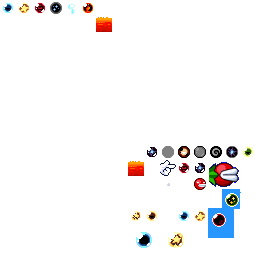
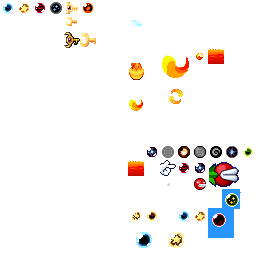
redesigned key spell

diff --git a/Leore/Objects/Projectiles/FireProjectile.cs b/Leore/Objects/Projectiles/FireProjectile.cs
@@ -18,6 +18,8 @@ namespace Leore.Objects.Projectiles
 {
     public abstract class FireProjectile : PlayerProjectile
     {
+        public bool IsPrimary { get; set; }
+
         protected bool dead;
 
         protected Player player => GameManager.Current.Player;
@@ -44,8 +46,8 @@ namespace Leore.Objects.Projectiles
 
         public override void Destroy(bool callGC = false)
         {
-
-            new SingularEffect(X, Y, 10) { Scale = Scale * .75f };
+            if (IsPrimary)
+                new SingularEffect(X, Y, 10) { Scale = Scale * .75f };
             base.Destroy(callGC);
         }
 
@@ -65,7 +67,7 @@ namespace Leore.Objects.Projectiles
 
     public class FireProjectile1 : FireProjectile
     {
-        private int bounce = 3;
+        public int Bounce { get; set; } = 3;
         private List<Vector2> a;
         private int ind;
         private float d;
@@ -81,6 +83,8 @@ namespace Leore.Objects.Projectiles
             d = 0;
 
             Texture = AssetManager.Projectiles[10];
+
+            IsPrimary = true;
         }
 
         public override void Update(GameTime gameTime)
@@ -114,10 +118,10 @@ namespace Leore.Objects.Projectiles
                 XVel *= .95f;
                 YVel = -Math.Sign(YVel) * Math.Max(Math.Abs(YVel) * .85f, 1.3f);
 
-                bounce = Math.Max(bounce - 1, 0);
+                Bounce = Math.Max(Bounce - 1, 0);
             }
 
-            if ((bounce == 0)
+            if ((Bounce == 0)
                 || Math.Max(Math.Abs(XVel), Math.Abs(YVel)) < .1f)
                 Destroy();
 
@@ -159,10 +163,6 @@ namespace Leore.Objects.Projectiles
 
     public class FireProjectile2 : FireProjectile
     {
-        private List<Vector2> a;
-        private int ind;
-        private float d;
-
         private int lifeTime = 80;
         
         private Direction dir;
@@ -175,7 +175,7 @@ namespace Leore.Objects.Projectiles
         private float maxSpd;
 
         private float tVel = .15f;
-
+        
         public FireProjectile2(float x, float y, Direction dir, Direction lookDir, float amp, float spd, float t, float tVel) : base(x, y, SpellLevel.TWO)
         {
             Scale = new Vector2(.75f);
@@ -188,10 +188,7 @@ namespace Leore.Objects.Projectiles
             this.lookDir = lookDir;
 
             Damage = 2;
-
-            a = new List<Vector2>() { Position, Position, Position, Position };
-            d = 0;
-
+            
             Texture = AssetManager.Projectiles[11];
         }
 
@@ -199,13 +196,39 @@ namespace Leore.Objects.Projectiles
         {
             base.Update(gameTime);
             
-            //Angle = Angle + .3f * Math.Sign((int)XVel != 0 ? XVel : 1);
             light.Scale = Scale * .6f;
 
             lifeTime = Math.Max(lifeTime - 1, 0);
             
             var col = GameManager.Current.Map.CollisionTile(X + XVel, Y + YVel);
-                        
+
+            var colX = GameManager.Current.Map.CollisionTile(X + XVel, Y);
+            var colY = GameManager.Current.Map.CollisionTile(X, Y + YVel);
+            
+            if (colY)
+            {
+                //if (IsPrimary)
+                //{
+                //    var colxv = MathUtil.AtMost(XVel, 1.5f);
+                //    var colyv = -1 * MathUtil.AtMost(YVel, 1.5f) - 1;
+                //    if (colyv > 0)
+                //        colxv *= .5f;
+                    
+                //    new FireProjectile1(X - XVel, Y - YVel) { XVel = colxv, YVel = colyv, Bounce = 2 };
+                //}
+                Destroy();
+                return;
+            }
+            if (colX)
+            {
+                //if (IsPrimary)
+                //{
+                //    new FireProjectile1(X - XVel, Y - YVel) { XVel = -1 * MathUtil.AtMost(XVel, 1.5f), YVel = MathUtil.AtMost(YVel, 1.5f), Bounce = 2 };
+                //}
+                Destroy();
+                return;
+            }
+
             var inWater = GameManager.Current.Map.CollisionTile(X, Y, GameMap.WATER_INDEX);
             if (inWater && !col)
                 Destroy();
@@ -255,42 +278,12 @@ namespace Leore.Objects.Projectiles
             Move(XVel, YVel);
             
             if (lifeTime == 0)
-                Destroy();
-
-            // shadow
-
-            d = Math.Max(d - 1, 0);
-            if (d == 0)
-            {
-                a[ind] = Position;
-                ind = (ind + 1) % a.Count;
-                d = 0;
-            }
-
-            //if (Math.Max(Math.Abs(XVel), Math.Abs(YVel)) < .5f && spd == maxSpd)
-                //Destroy();
+                Destroy();            
         }
 
         public override void Draw(SpriteBatch sb, GameTime gameTime)
         {
-            sb.Draw(Texture, Position, null, Color, Angle, DrawOffset, Scale, SpriteEffects.None, Depth);
-
-            //var pos = a.ToList();
-
-            //pos.Sort(
-            //    delegate (Vector2 o1, Vector2 o2)
-            //    {
-            //        if (MathUtil.Euclidean(o1, Position) < MathUtil.Euclidean(o2, Position)) return -1;
-            //        if (MathUtil.Euclidean(o1, Position) > MathUtil.Euclidean(o2, Position)) return 1;
-            //        return 0;
-            //    }
-            //);
-
-            //for (var i = 0; i < a.Count; i++)
-            //{
-            //    var shadow = .75f - i / (float)(a.Count + 1);
-            //    sb.Draw(Texture, pos[i], null, new Color(Color, shadow), Angle, DrawOffset, Scale, SpriteEffects.None, Depth - .0001f * (float)i);
-            //}
+            sb.Draw(Texture, Position, null, Color, Angle, DrawOffset, Scale, SpriteEffects.None, Depth);            
         }
     }
 
@@ -302,6 +295,8 @@ namespace Leore.Objects.Projectiles
         {
             Scale = new Vector2(.4f);
             Texture = AssetManager.Projectiles[12];
+
+            IsPrimary = true;
         }
 
         public override void Update(GameTime gameTime)

diff --git a/Leore/Main/Orb.cs b/Leore/Main/Orb.cs
@@ -79,6 +79,8 @@ namespace Leore.Main
         private float lightScaleNormal = .75f;
         private float lightScaleDark = .3f;
 
+        private float targetAngle;
+
         public Orb(Player player) : base(player.X, player.Y)
         {
             Scale = new Vector2(1);
@@ -100,9 +102,8 @@ namespace Leore.Main
             base.BeginUpdate(gameTime);
 
             light.Scale = new Vector2(Type == SpellType.VOID ?  lightScaleDark : lightScaleNormal);
-
             TargetPosition += new Vector2(player.XVel, player.YVel);
-
+                        
             Cooldown = Math.Max(Cooldown - 1, 0);
 
             if (alphaTimeout > 0)
@@ -119,8 +120,19 @@ namespace Leore.Main
 
             Scale = new Vector2(1, 1);
 
-            //if (Type == SpellType.SNATCH_KEYS)
-            //    Scale = new Vector2((int)player.Direction, 1);
+            if (Type == SpellType.SNATCH_KEYS)
+            {
+                if (player.Direction == Direction.LEFT)
+                    targetAngle = (float)MathUtil.VectorToAngle(new Vector2(1, -Math.Sign((int)player.LookDirection)), true);
+                if (player.Direction == Direction.RIGHT)
+                    targetAngle = (float)MathUtil.VectorToAngle(new Vector2(1, Math.Sign((int)player.LookDirection)), true);
+                Scale = new Vector2((int)player.Direction, 1);
+            } else
+            {
+                targetAngle = 0;
+            }
+
+            Angle += (targetAngle - Angle) / 6f;
 
             switch (State)
             {
@@ -172,9 +184,10 @@ namespace Leore.Main
                                     ParticleColors = new List<Color> { Color.White },
                                     SpawnRate = 5
                                 };
-                                new SingularEffect(X, Y, 10);
+                                if (player.LookDirection != Direction.NONE)
+                                    new SingularEffect(X, Y, 10);
                             }
-                            TargetPosition = player.Position + new Vector2(Math.Sign((int)player.Direction) * 6, 2 * Math.Sign((int)player.LookDirection));
+                            TargetPosition = player.Position + new Vector2(Math.Sign((int)player.Direction) * 8, 2 * Math.Sign((int)player.LookDirection));
                             //Position = TargetPosition;
                             break;
                         case SpellType.FIRE:

diff --git a/Leore/Objects/Projectiles/FireSpell.cs b/Leore/Objects/Projectiles/FireSpell.cs
@@ -94,18 +94,8 @@ namespace Leore.Objects.Projectiles
                         {
                             var tVel = .3f;
 
-                            new FireProjectile2(X, Y, player.Direction, player.LookDirection, 0, 3f, 0, tVel);
-
-                            //if (p > .3f)
-                            //{ 
-                            //    new FireProjectile2(X, Y, player.Direction, player.LookDirection, 1f, 3.2f, 1.5f * (float)Math.PI) { Scale = new Vector2(.4f), Damage = 1 };
-                            //    new FireProjectile2(X, Y, player.Direction, player.LookDirection, 1f, 3.2f, 0.5f * (float)Math.PI) { Scale = new Vector2(.4f), Damage = 1 };                                
-                            //}
-                            //if (p > .6f)
-                            //{
-                            //    new FireProjectile2(X, Y, player.Direction, player.LookDirection, 1f, 2.9f, 1f * (float)Math.PI) { Scale = new Vector2(.4f), Damage = 1 };
-                            //    new FireProjectile2(X, Y, player.Direction, player.LookDirection, 1f, 2.9f, 2f * (float)Math.PI) { Scale = new Vector2(.4f), Damage = 1 };
-                            //}
+                            new FireProjectile2(X, Y, player.Direction, player.LookDirection, 0, 3f, 0, tVel) { IsPrimary = true };
+                            
                             if (p > .25f)
                             {
                                 new FireProjectile2(X, Y, player.Direction, player.LookDirection, 1f, 2.5f, 1.5f * (float)Math.PI, tVel) { Scale = new Vector2(.4f), Damage = 1 };
